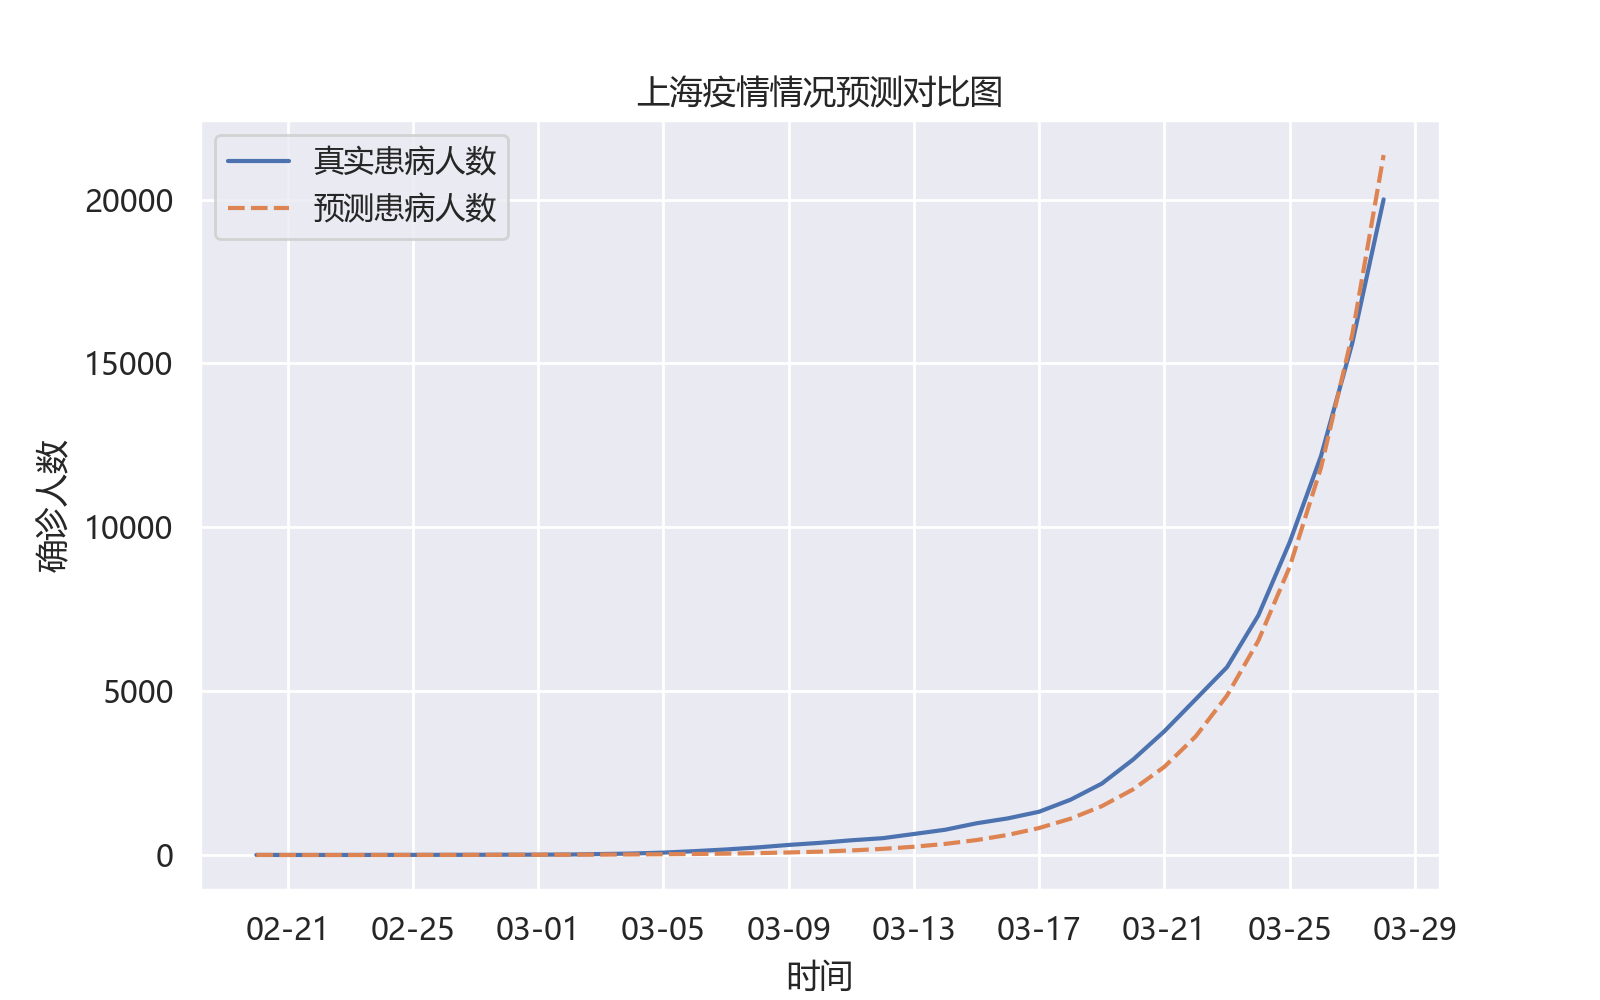
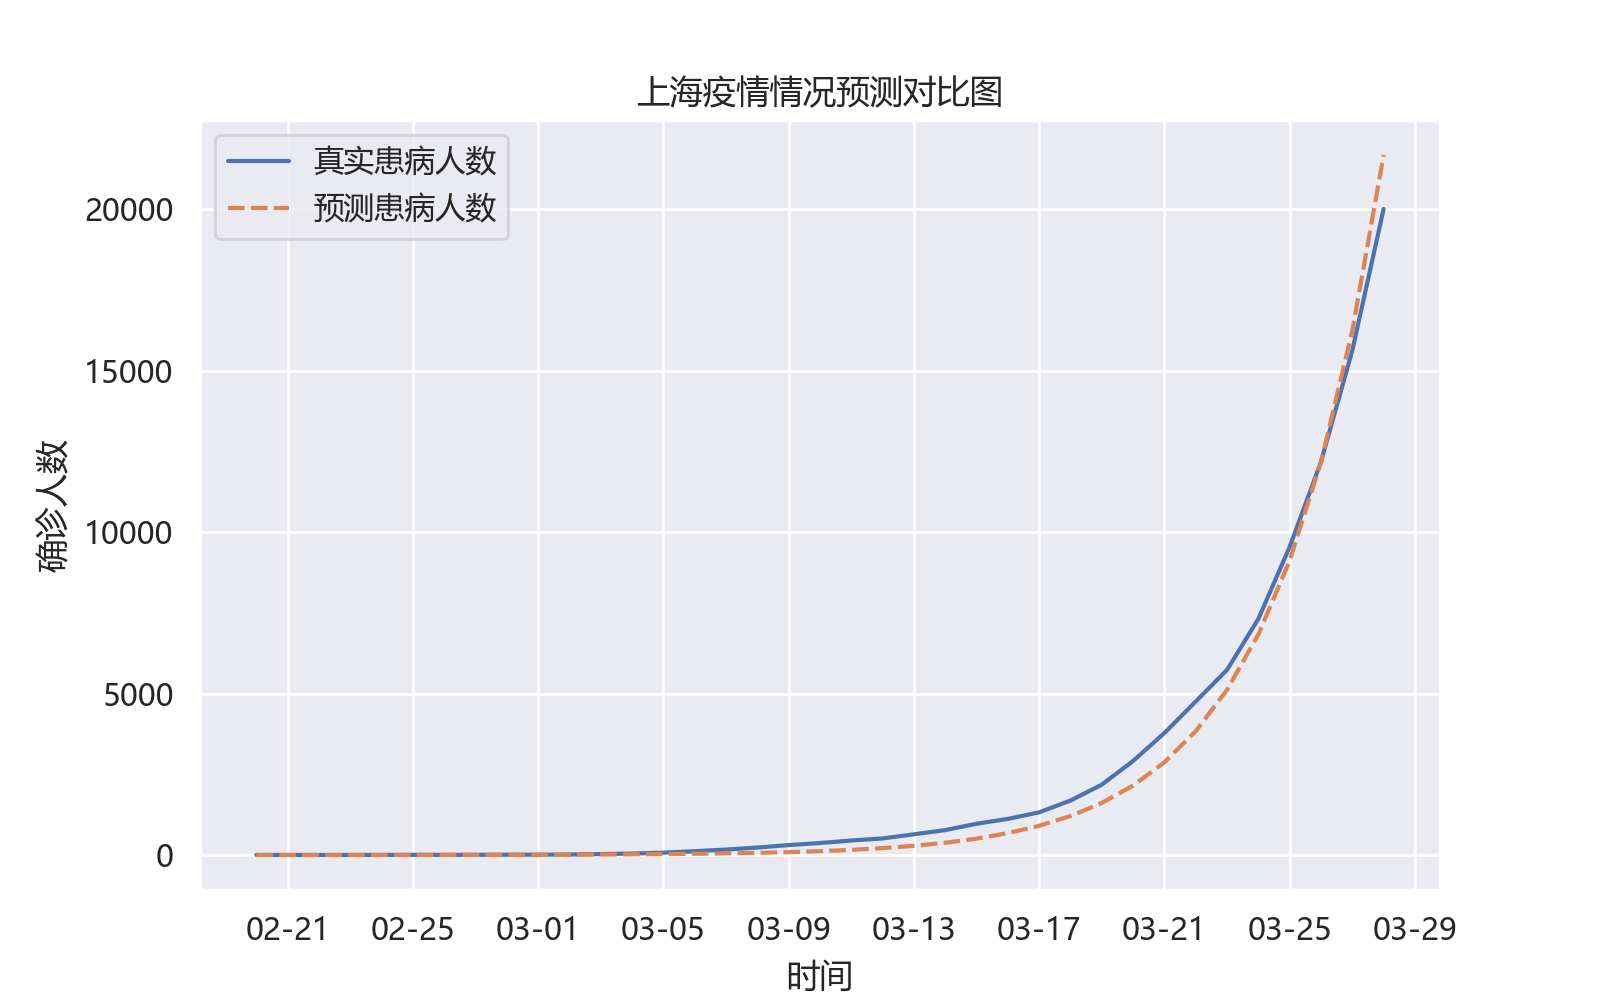
change beta_is beta_ia, change loss_huber

diff --git a/model/SEIRQD.py b/model/SEIRQD.py
@@ -19,8 +19,8 @@ class SEIRQD:
         :param real_patients: 真实病例数
         :param r_is: 无症状感染者接易感人群的人数
         :param r_ia: 感染者接触易感人群的人数
-        :param beta_is: 有症状感染系数 0.05 基于SEIR模型的高校新冠肺炎疫情传播风险管控研究
-        :param beta_ia: 无症状感染系数 0.025 基于SEIR模型的高校新冠肺炎疫情传播风险管控研究
+        :param beta_is: 有症状感染系数 例：0.05 基于SEIR模型的高校新冠肺炎疫情传播风险管控研究
+        :param beta_ia: 无症状感染系数 例：0.025 基于SEIR模型的高校新冠肺炎疫情传播风险管控研究
         :param t: 流动人口中的易感者比例	初设0（有隔离政策）、0.00001（无隔离政策）
         :param alpha: 潜伏期	根据毒株而定
         :param i: 核酸检测频率(几天一次)，初设1-7天、0天（即不检测，自然发生对照组）
@@ -113,15 +113,16 @@ class SEIRQD:
     def train(self, beta_is=None, beta_ia=None):
         if beta_is is None or beta_ia is None:
             loss_val_min = float('inf')
-            for beta_is in np.arange(0.001, 0.300, 0.001):
-                for beta_ia in np.arange(0.001, 0.400, 0.001):
-                    if beta_ia * 1.3 < beta_is or beta_ia * 2 > beta_is:
+            for beta_is in np.arange(0.001, 0.900, 0.001):
+                for beta_ia in np.arange(0.001, 0.900, 0.001):
+                    if not 1.3 * beta_ia < beta_is < 2 * beta_ia:
                         continue
                     loss_val = getLoss(copy.deepcopy(self.data), self.a, self.time, self.real_patients,
                                        r_is=self.r_is, r_ia=self.r_ia, beta_is=beta_is, beta_ia=beta_ia,
                                        t=self.t, alpha=self.alpha, i=self.i, c=self.c,
                                        theta_s=self.theta_s, theta_a=self.theta_a,
-                                       gamma_s1=self.gamma_s1, gamma_a1=self.gamma_a1, gamma_u=self.gamma_u, p=self.p,
+                                       gamma_s1=self.gamma_s1, gamma_a1=self.gamma_a1, gamma_u=self.gamma_u,
+                                       p=self.p,
                                        m=self.m)
                     if loss_val_min > loss_val:
                         loss_val_min = loss_val
@@ -132,6 +133,7 @@ class SEIRQD:
             self.beta_is = beta_is
             self.beta_ia = beta_ia
 
+        print(self.beta_is, self.beta_ia)
         self.r_beta_is = self.r_is * self.beta_is
         self.r_beta_ia = self.r_ia * self.beta_ia
         self.run()
@@ -168,19 +170,20 @@ class SEIRQD:
         plt.savefig('./data/result_{}.png'.format(self.data["city_name"]))
 
     def loss_huber(self):
+        # 平方差损失函数
         # loss_val = np.sqrt(np.mean((self.data["predict_total"] - self.real_patients) ** 2))
+        # huber损失函数
         true = self.data["predict_total"]
         pred = self.real_patients
-        delta = 5
+        delta = 50
         loss = np.where(np.abs(true - pred) < delta, 0.5 * ((true - pred) ** 2),
                         delta * np.abs(true - pred) - 0.5 * (delta ** 2))
-        return np.sum(loss)
+        loss_val = np.sum(loss)
+        return loss_val
 
 
 def getLoss(data: dict, a: dict, time: dict, real_patients: dict,
-            r_is=20.0, r_ia=40.0, beta_is=0, beta_ia=0,
-            t=1.0, alpha=4.4, i=3.0, c=0.4,
-            theta_s=0.8, theta_a=0.6, gamma_s1=10.0, gamma_a1=10.0, gamma_u=10.0, p=0.15, m=0.064):
+            r_is, r_ia, beta_is, beta_ia, t, alpha, i, c, theta_s, theta_a, gamma_s1, gamma_a1, gamma_u, p, m):
     use = SEIRQD(data, a, time, real_patients,
                  r_is=r_is, r_ia=r_ia, beta_is=beta_is, beta_ia=beta_ia,
                  t=t, alpha=alpha, i=i, c=c,

diff --git a/main.py b/main.py
@@ -51,13 +51,13 @@ real_patients = np.array(real['patients'])
 ans = None
 if city_name == 'xian':
     ans = SEIRQD(seir_data_xian, population_shift, time, real_patients,
-                 r_is=20.0, r_ia=40.0, beta_is=0.046, beta_ia=0.023,
+                 r_is=20.0, r_ia=40.0, beta_is=0.001, beta_ia=0.001,
                  t=1.0, alpha=4.4, i=3.0, c=0.35,
                  theta_s=0.8, theta_a=0.6, gamma_s1=10.0, gamma_a1=10.0, gamma_u=10.0, p=0.15, m=0.064)
 elif city_name == 'shanghai':
     ans = SEIRQD(seir_data_shanghai, population_shift, time, real_patients,
 
-                 r_is=20.0, r_ia=40.0, beta_is=0.046, beta_ia=0.023,
+                 r_is=20.0, r_ia=40.0, beta_is=0.001, beta_ia=0.001,
                  t=1.0, alpha=4, i=2.0, c=0.25,
                  theta_s=0.8, theta_a=0.6, gamma_s1=10.0, gamma_a1=10.0, gamma_u=10.0, p=0.15, m=0.064)
 else:
@@ -71,5 +71,4 @@ ans.data["real_patients"] = [int(i) for i in real_patients]
 ans.data["predict_total"] = [int(i) for i in ans.data["predict_total"]]
 ans.drawGraph()
 # ans.saveResultAsExcel()
-
-# 绝对值和平方之前
+print(ans.data)
